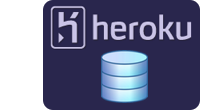
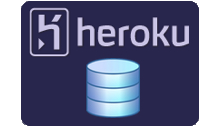
Deploy

diff --git a/_scss/_front-page.scss b/_scss/_front-page.scss
@@ -195,7 +195,7 @@ header {
                             //border-top: 8px solid $theme-4;
                             margin-left: 20%;
                             margin-bottom: 2%;
-                            zoom: 0.75;
+                            zoom: 0.9;
                         }
                     }
                     @media only screen and (max-width: 768px) {
@@ -213,7 +213,7 @@ header {
 
                 li.project-heroku-db {
                     &:before {
-                        background-image: url('../img/heroku_db.png');
+                        background-image: url('../img/test.png');
                         width: 157px;
                         height: 110px;
                         border-style: solid;

diff --git a/css/main.css b/css/main.css
@@ -690,14 +690,14 @@ header .photo {
           float: left !important;
           margin-left: 20%;
           margin-bottom: 2%;
-          zoom: 0.75; } }
+          zoom: 0.9; } }
     @media only screen and (max-width: 768px) {
       .wrapper .main .projects ul li h3 {
         clear: both; } }
     .wrapper .main .projects ul li.project-alumina:before {
       background-image: url("../img/macbook_alumina_small.png"); }
     .wrapper .main .projects ul li.project-heroku-db:before {
-      background-image: url("../img/heroku_db.png");
+      background-image: url("../img/test.png");
       width: 157px;
       height: 110px;
       border-style: solid;
